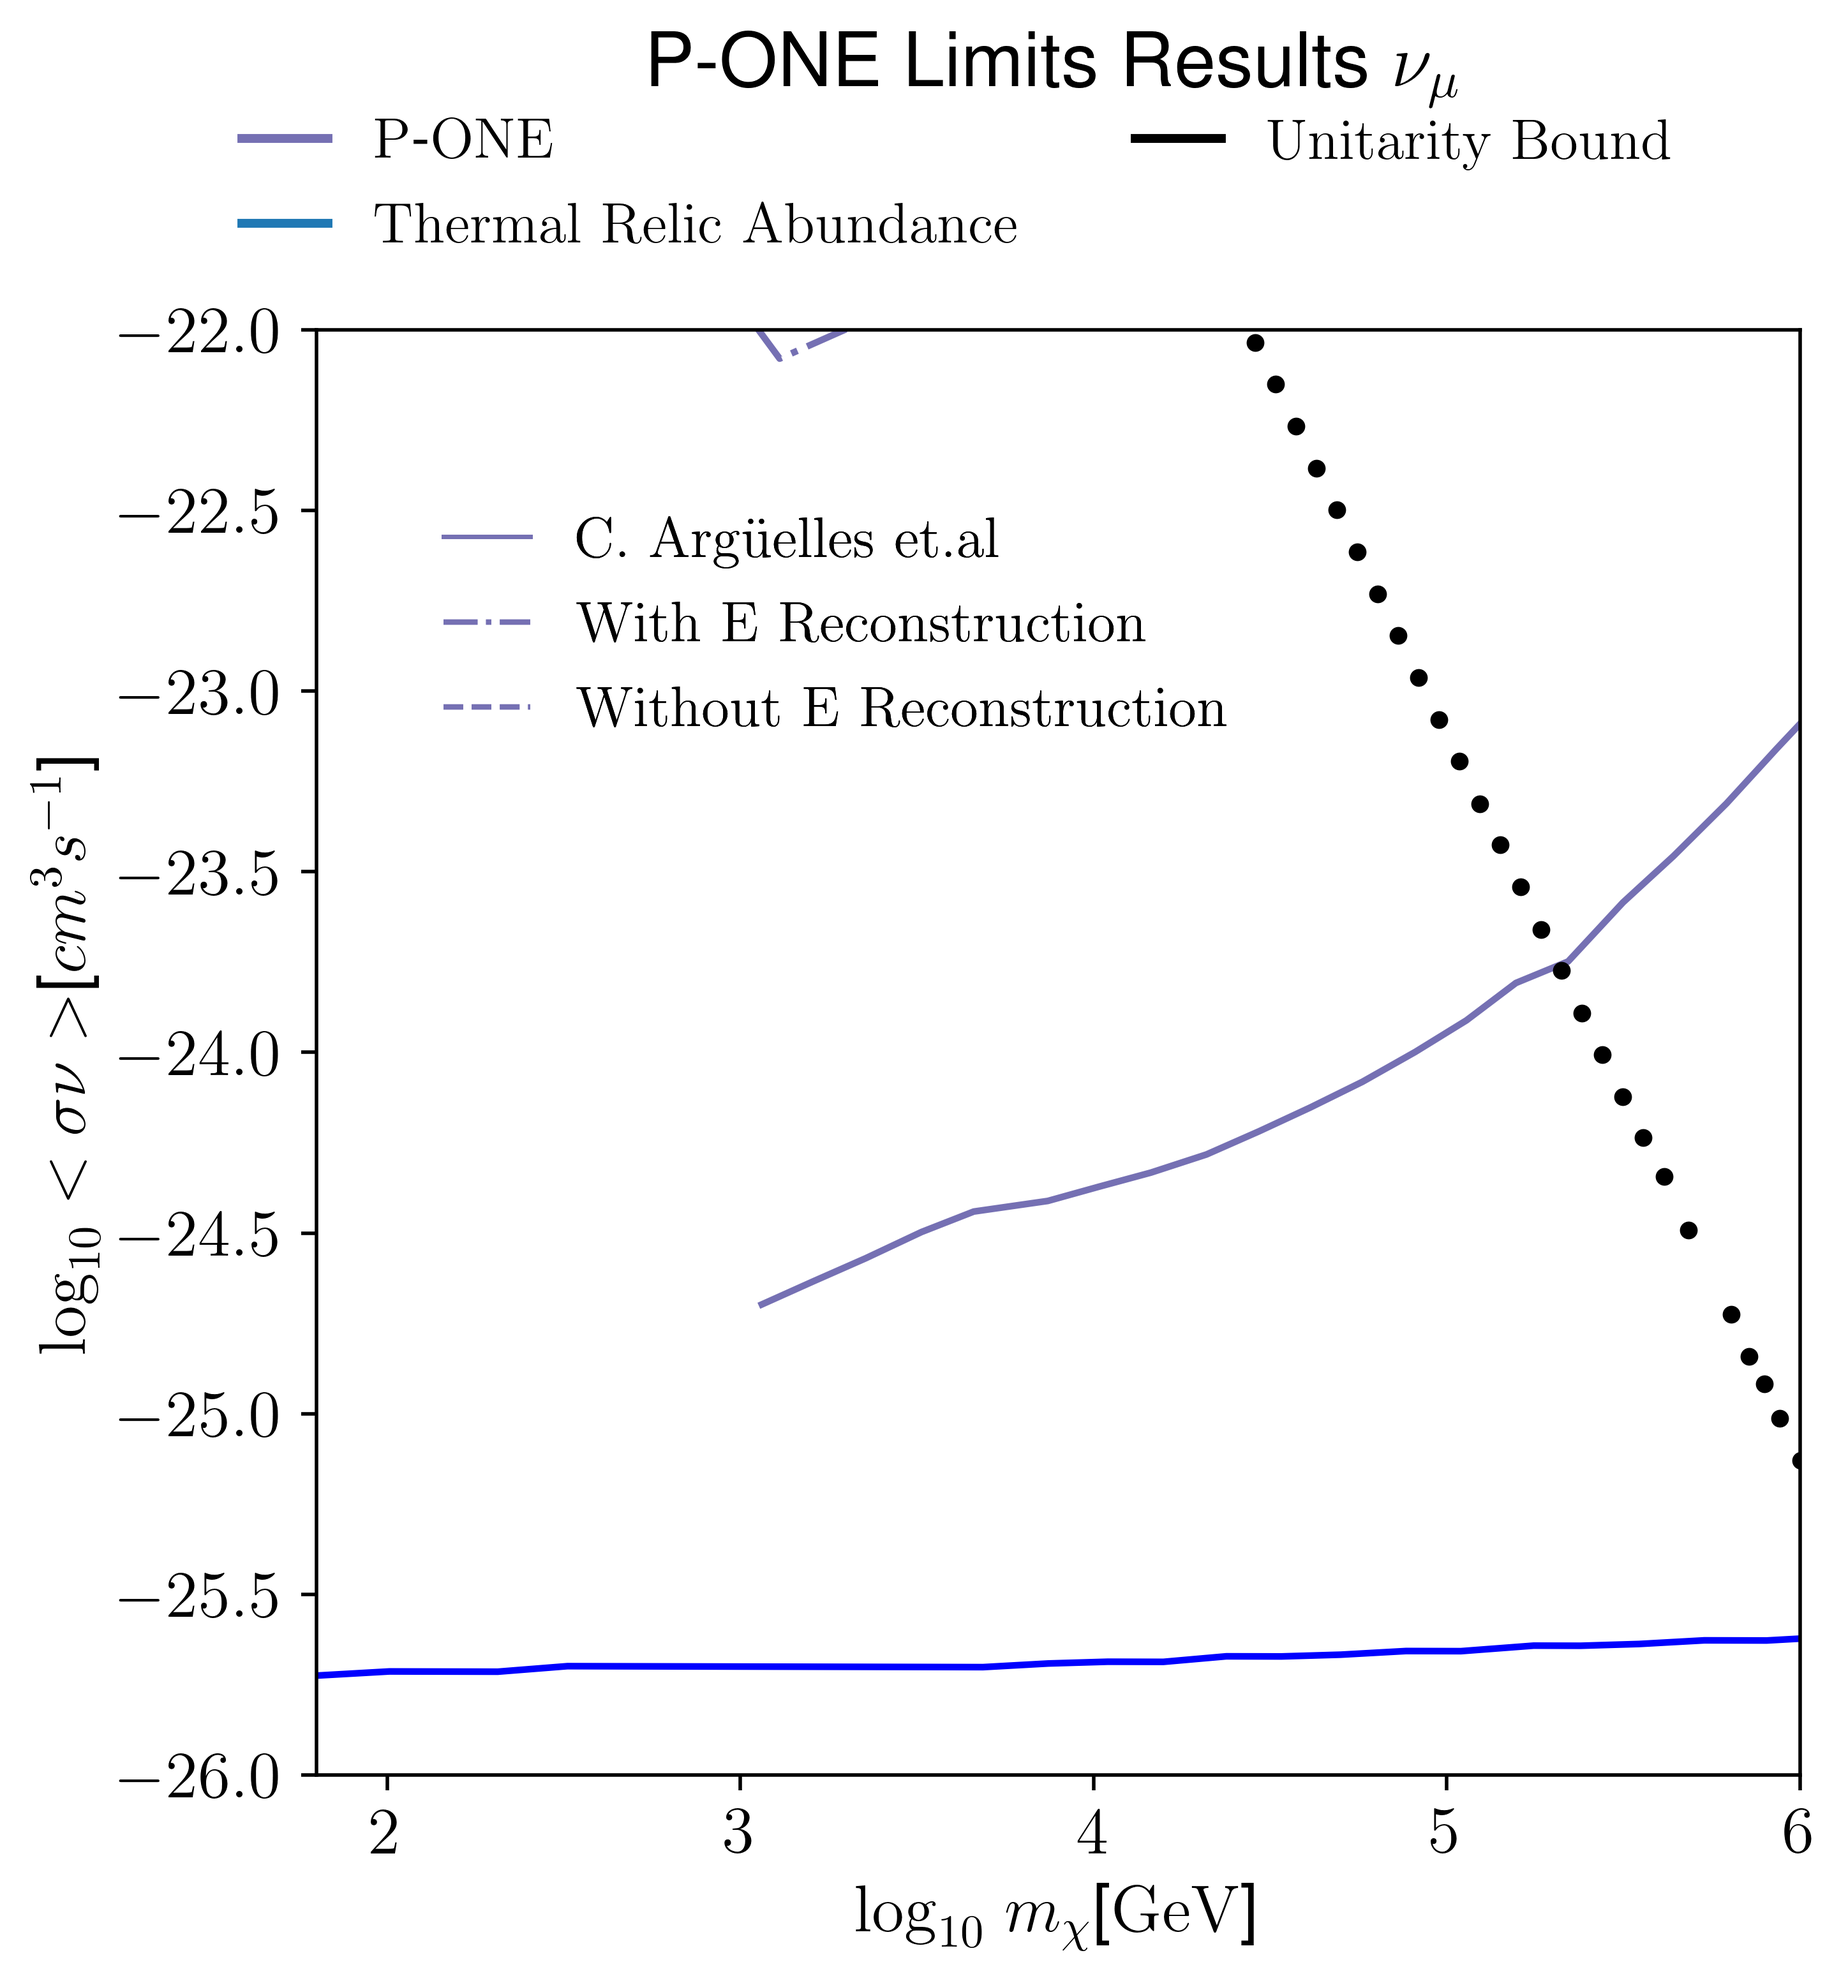
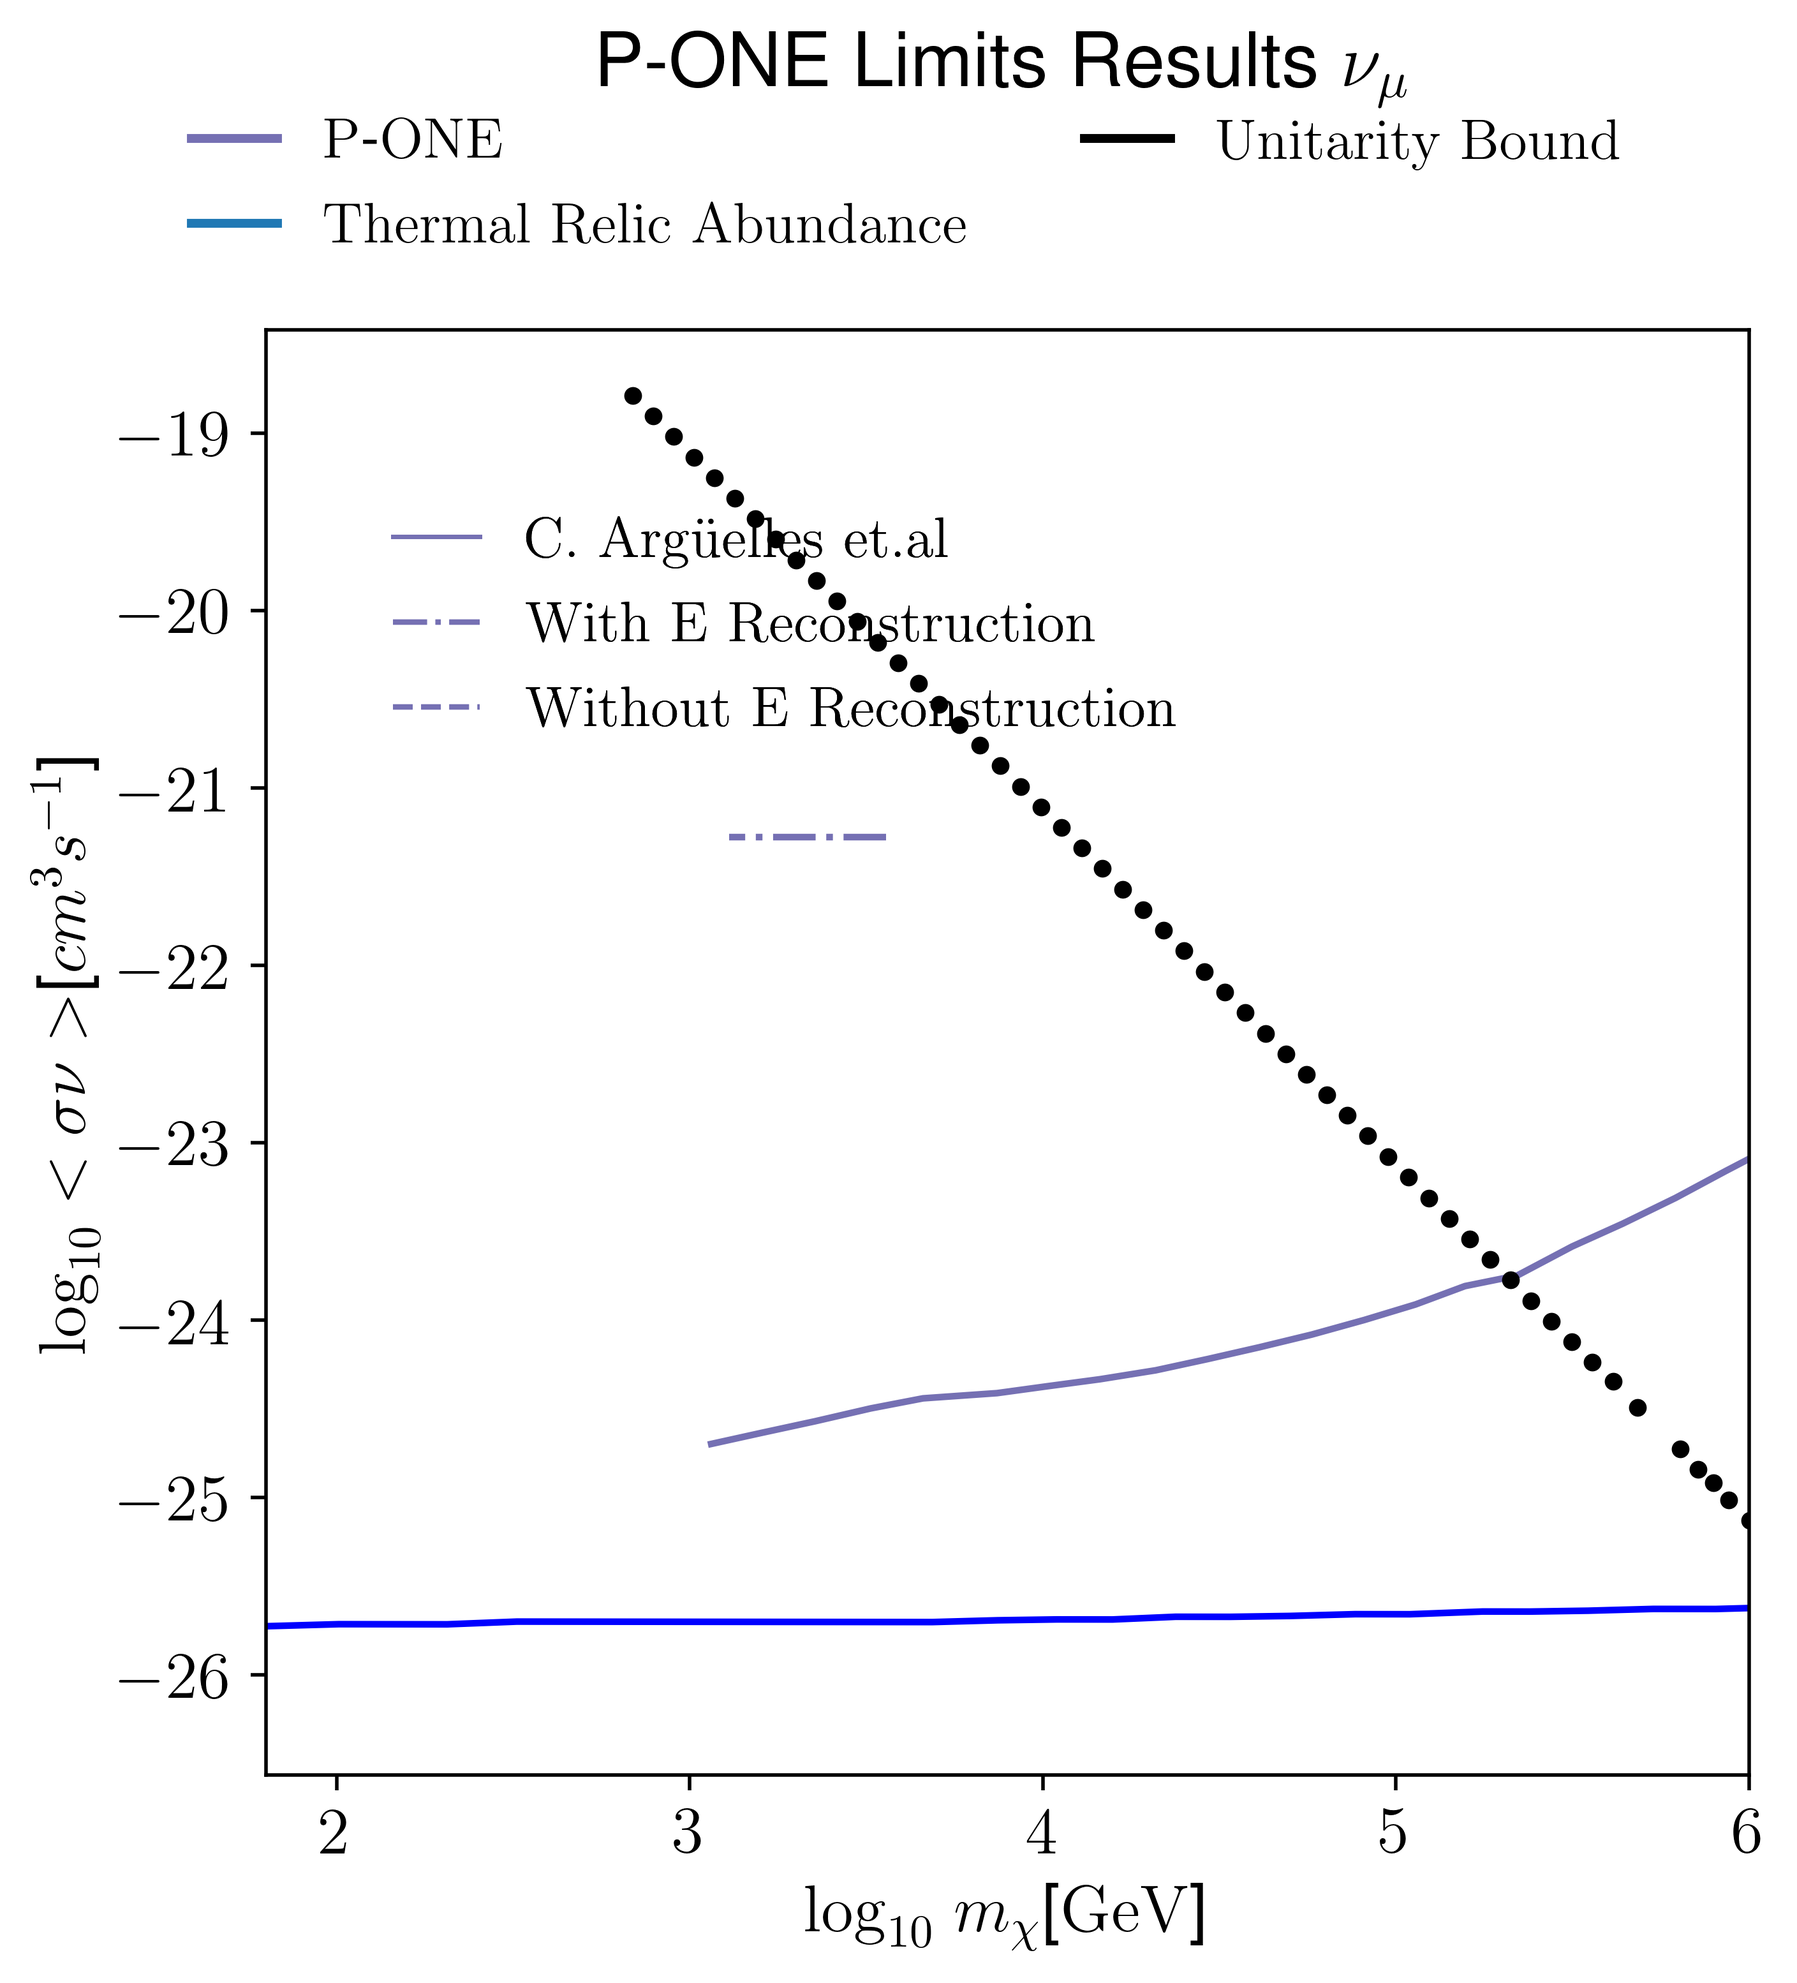
added the new .ipynb file

diff --git a/pone_dm/dm2nu.py b/pone_dm/dm2nu.py
@@ -34,8 +34,8 @@ class DM2Nu(object):
         self.omega_L = self._const.omega_L
         self.omega_r = self._const.omega_r
         self._d_constructor()
-        self._sigma = self._sigma_lopez_  # self._sigma_lopez_
-        self._dln_sigma_1 = self._dln_sigma_1_ibarra
+        self._sigma = self._sigma_lopez_ # self._sigma_lopez_
+        self._dln_sigma_1 = self._dln_sigma_1_lopez
         self.nu_e = pd.read_csv(open('../data/Li_project/nu_e.dat', 'rb'),
                                 delim_whitespace=True)
         if config['general']['density'] == 'Burlket':
@@ -419,24 +419,21 @@ class DM2Nu(object):
             return B_0(x) * C(x)
         c_arr = c_200(x)
         # Removing too high values
-        c_arr[c_arr > 100] = 100
+        # c_arr[c_arr > 100] = 100
         return c_arr
 
-    def sigma_prada(self, M):
-        y = 1e12 / M  # prada et.al. definition
+    def _sigma_prada(self, M):
+        y = (M * 0.67 / (1e12))**(-1) # prada et.al. definition
         sigma = ((16.9 * y**(0.41)) /
                  (1 + (1.102*y**(0.2))) + (6.22*y**(0.333)))
         return sigma
 
-    def _dln_sigma_1_ibarra(self, M):
-        y = M / 1e12
-        # sigma = self.sigma_prada(M, z)
-        # lnsigm_inv = np.log(sigma**(-1))
-        dlnsigma_dm_1e12 = (((-6.929 * y**0.2 - 3.911) /
-                            (((y**0.2 + 1.102)**2) * y**1.21)) -
-                            (2.07126 / y**1.333))
-
-        dlnsigma_inv_dm = -dlnsigma_dm_1e12 / 1e12
+    def _dln_sigma_1_ibarra(self, M): # change the results --- 
+        y = (M * 0.67 / (1e12 ))**(-1)
+        dlnsigma_dy = -(((0.372051/y) + (0.21/(y**0.8)) + (0.43461/(y**0.667))) /
+                       (0.907441 + (y**0.2) + (5.64428*(y**0.333))))
+        dy_dm = -(y**2)
+        dlnsigma_inv_dm = dlnsigma_dy * dy_dm
         return dlnsigma_inv_dm
 
     def _lnsigma_1_lopez(self, M: float):
@@ -447,15 +444,17 @@ class DM2Nu(object):
         """returns:
         dln(sigma)/dM : Float
         """
+    
         return (
-            0.2506 * 0.07536 * M**(0.07536 - 1) -
-            2.6 * 0.001745 * M**(0.001745 - 1)
+            0.2506 * 0.07536 * (M)**(0.07536 - 1) -
+            2.6 * 0.001745 * (M)**(0.001745 - 1)
         )
 
     def _g_tild_ibarra(self, M, z):
+        a = 0.097
         a = 0.520 + ((0.905-0.520) * np.exp(-0.617 * z**1.21))
         b = (0.026 * z) - 0.101
-        c_arr = np.exp(a + (b * np.log10(M)))
+        c_arr = self.c_delta(M, z)  # np.exp(a + (b * np.log10(M)))
 
         return ((c_arr**3) * (1 - (1 + c_arr)**(-3)) /
                 (3 * (np.log(1 + c_arr) - c_arr * (1 + c_arr)**(-1)))**2)
@@ -470,6 +469,42 @@ class DM2Nu(object):
                     self._f_delta(M, z, Delta=self._const.Delta) *
                     self._g_tild_ibarra(M, z)
                     )
+        aa = (
+            ((self.omega_m*(1+z)**3 + self.omega_L + self.omega_r*(1+z)**4) *
+             self._const.Delta) /
+            (3 * self._const.omega_DM * (1+z)**3))
+        # ------ Here the dNdlogx should be included in the
+        # integrand for W, b chanels ----- 19.04.22
+        # Using splines to integrate
+        M_host = np.array(config['advanced']['integration grid lopez'])
+
+        b_quad = quad(integrand, M_host[0], M_host[-1])[0]
+        function_vals = np.array([
+            integrand(M)
+            for M in config['advanced']['integration grid lopez']
+        ])
+        bb = np.trapz(
+            function_vals,
+            x=config['advanced']['integration grid lopez'],
+            axis=0
+        )
+        # bb = (
+        #     quad(integrand, 1e-2, 1e1)[0] +
+        #     quad(integrand, 1e1, 1e10)[0] +
+        #     quad(integrand, 1e10, 1e17)[0]_dphi_de_c
+        # )
+        return aa * b_quad
+
+    def _G_lopez(self, z: float):
+        """returns
+        G_lopez : numpy array
+        """
+        def integrand(M):
+            return (
+                    self._dln_sigma_1(M) *
+                    self._f_delta(M, z, Delta=self._const.Delta) *
+                    self._g_tild(M, z)
+                    )
 
         aa = (
             ((self.omega_m*(1+z)**3 + self.omega_L + self.omega_r*(1+z)**4) *
@@ -478,9 +513,6 @@ class DM2Nu(object):
         # ------ Here the dNdlogx should be included in the
         # integrand for W, b chanels ----- 19.04.22
         # Using splines to integrate
-        M_host = np.array(config["advanced"]["integration grid lopez"])
-        b_quad = quad(integrand, M_host[0], M_host[-1])[0]
-        
         function_vals = np.array([
             integrand(M)
             for M in config["advanced"]["integration grid lopez"]
@@ -495,9 +527,11 @@ class DM2Nu(object):
         #     quad(integrand, 1e1, 1e10)[0] +
         #     quad(integrand, 1e10, 1e17)[0]_dphi_de_c
         # )
-        return aa * b_quad, function_vals
+        return aa * bb, function_vals
 
-    def _G_lopez(self, z: float):
+
+
+    def _G(self, z: float):
         """returns
         G_lopez : numpy array
         """
@@ -538,7 +572,7 @@ class DM2Nu(object):
         z = m_x / E - 1  # To apply the delta function integral
         z_tmp = z[z > 0]
 
-        G = ((1 + self._G_lopez(z_tmp)) *
+        G = ((1 + self._G(z_tmp)) *
              (1 + z_tmp)**3)
 
         # multiplide the H_0 ------
@@ -551,7 +585,7 @@ class DM2Nu(object):
 
         b = 8 * np.pi * m_x**2
 
-        res = 2 * aaa * a_g * (z_tmp + 1) / (3 * m_x * b)
+        res = 2 * aaa * a_g / (3 * E[E<m_x] * b)
 
         # the factor of 2 for
         # annihiliation to 2 neutrino
@@ -589,7 +623,7 @@ class DM2Nu(object):
             # multiplide the H_0 ------
             b_t = (self._H(self._a_z(z_), self._const.H_0) *
                    self._const.H_0)
-            return ((1 + self._G_lopez(z_)) *
+            return ((1 + self._G(z_)[0]) *
                     (1 + z_)**3 / b_t)
         a_g = []
         for i, Z in enumerate(z):
@@ -1060,7 +1094,7 @@ class DM2Nu(object):
         z_tmp = z[z > 0]
 
         a_G = (
-            (1 + self._G_lopez(z_tmp)) *
+            (1 + self._G(z_tmp)[0]) *
             (1 + z_tmp)**3
         )
 

diff --git a/pone_dm/constants.py b/pone_dm/constants.py
@@ -16,10 +16,10 @@ class pdm_constants(object):
         # '# ##' == used in the simulation code----
         self.h = 0.71
         self.H_0 = 100 * self.h  # h km s^-1 Mpc^-1 hubble time --- # ##
-        self.H_0 = self.H_0 * 1e5 / 3.086e24  # h s^-1 ## Mpc->cm km-»cm
+        self.H_0 = self.H_0 #* 1e5 / 3.086e24  # h s^-1 ## Mpc->cm km-»cm
         # self.rho_c = 2.7754e11 * self.h**2  # M_0 Mpc^-3------> Mpc!!!!!
         # self.rho_c = self.rho_c * (1.9e30 * 1.78e-27**(-1)) * (3.086e24)**(-3)
-        self.rho_c = 1.053e-5 * self.h**2  # GeV cm^-3 -----------------------!!!!
+        self.rho_c = 2.7e11 # 1.053e-5 * self.h**2  # GeV cm^-3 -----------------------!!!!
         self.gamma = 1.3186  # NFW parameter --- slope parameter -----  # ##
         self._kappa = 2
         # ----------------------------------------------------------------------
